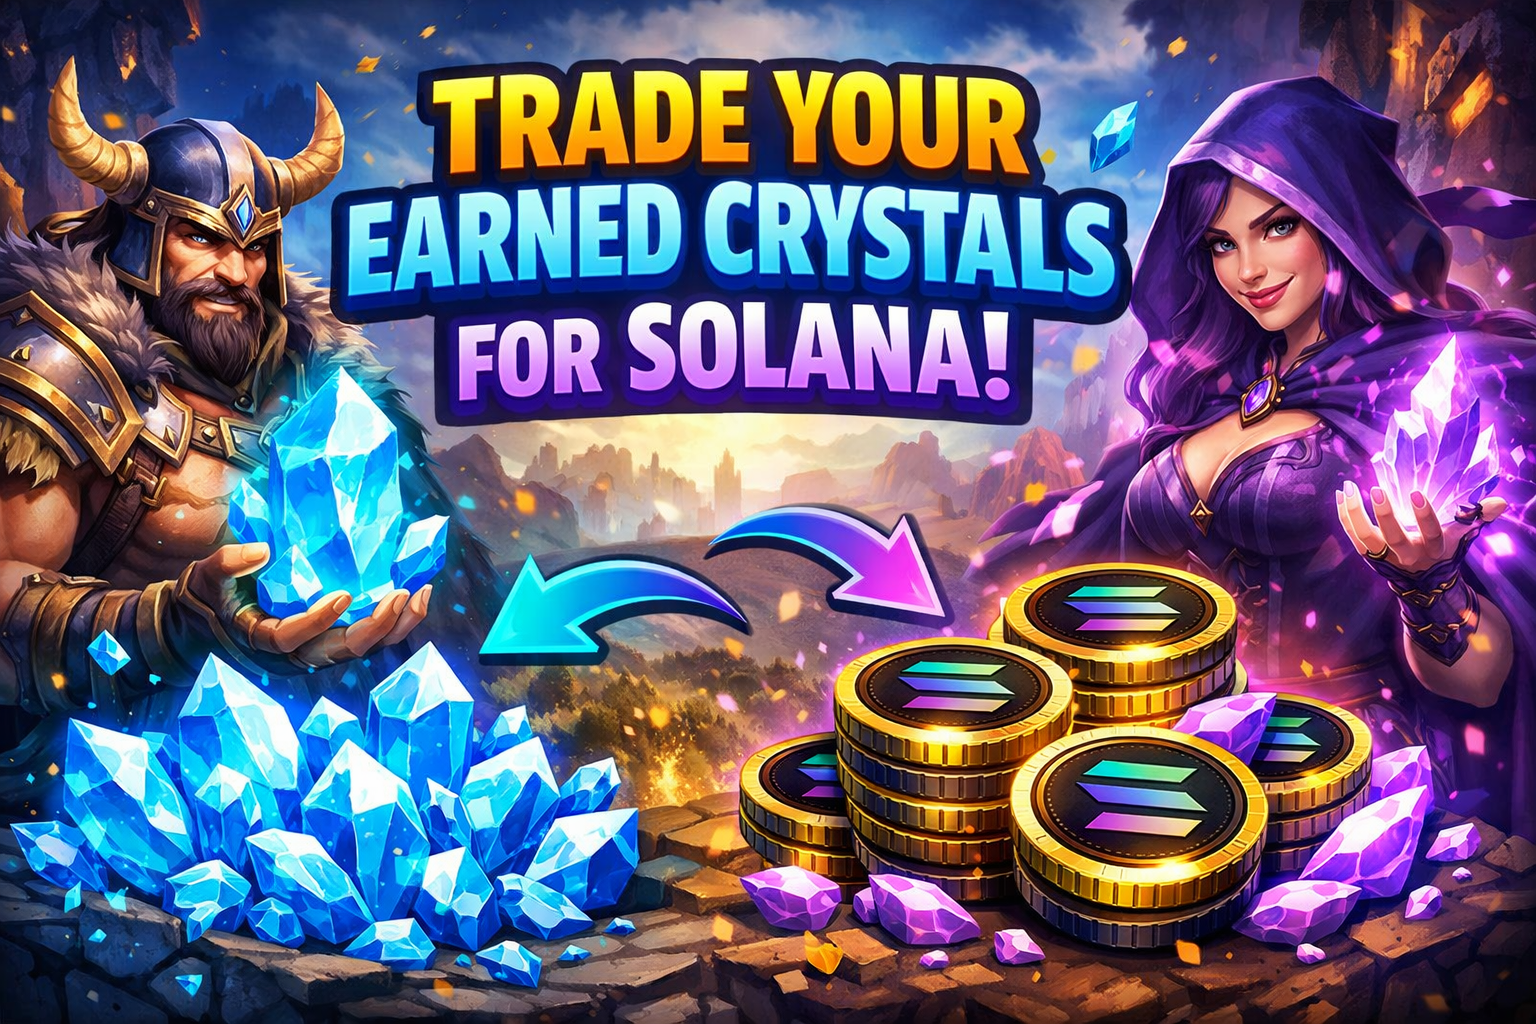
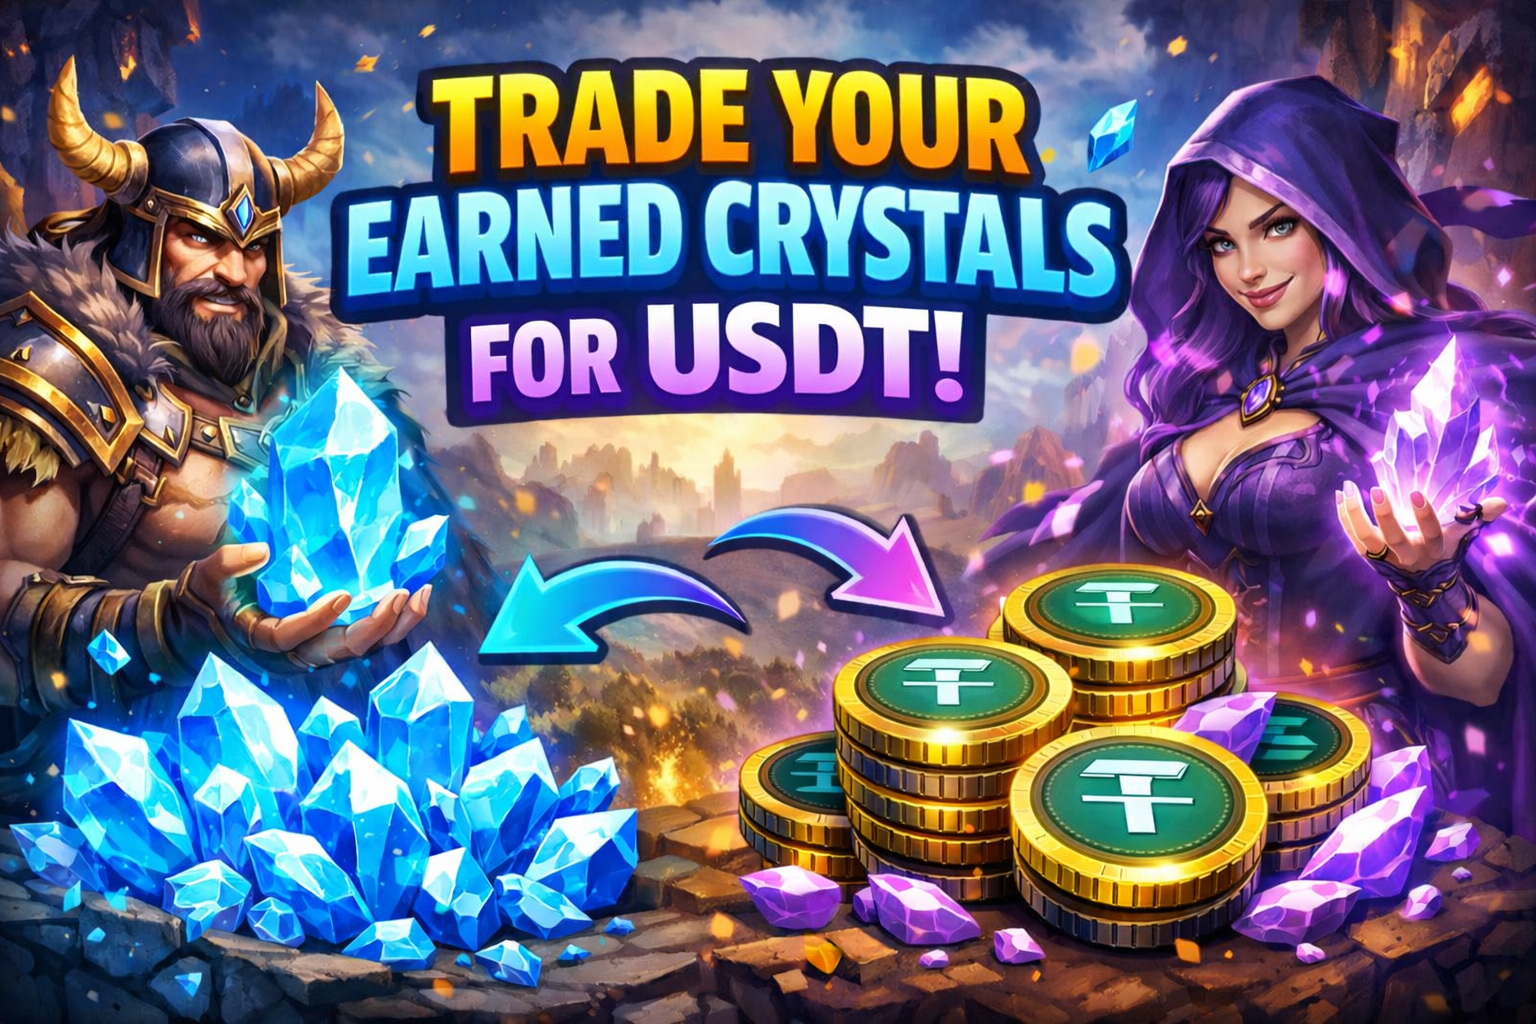
Refresh landing hero visuals

diff --git a/src/App.tsx b/src/App.tsx
@@ -6172,7 +6172,6 @@ function App() {
         <header className={topbarClass}>
           <div>
             <div className="brand">DOGE QUEST</div>
-            <div className="subtitle">Auto-battle, loot and XP in a pixel world</div>
           </div>
           <div className="top-actions">
             {stage === 'game' && hud && (
@@ -6247,8 +6246,7 @@ function App() {
                 conquer dungeons, build your own village, and share World Boss rewards.
               </p>
               <p className="auth-sublead highlight">
-                Earn real SOL by playing: farm crystals in dungeons and World Boss raids, build your own village and
-                earn passive income, then convert rewards to SOL. The deeper you push, the larger the payouts.
+                Stack crystals in dungeons, World Boss raids, and your village, then fight for your share of the live seasonal USDT pool. Premium gives a 1.5x payout bonus at the final snapshot.
               </p>
               <div className="auth-cta">
                 <div className="auth-cta-row">
@@ -6270,8 +6268,8 @@ function App() {
                   <span className="stat-label">Dungeons</span>
                 </div>
                 <div className="stat-card">
-                  <span className="stat-value">Mainnet</span>
-                  <span className="stat-label">Solana</span>
+                  <span className="stat-value">30</span>
+                  <span className="stat-label">Day Seasons</span>
                 </div>
               </div>
             </div>

diff --git a/src/App.css b/src/App.css
@@ -538,8 +538,8 @@
 }
 
 .topbar.centered .brand {
-  font-size: 30px;
-  letter-spacing: 2.8px;
+  font-size: 32px;
+  letter-spacing: 3px;
 }
 
 .top-actions {
@@ -1075,23 +1075,19 @@
 
 
 .brand {
-  font-family: 'Cinzel', 'Manrope', system-ui, sans-serif;
-  font-size: 26px;
-  letter-spacing: 2.4px;
+  font-family: 'Cinzel Decorative', 'Cinzel', 'Manrope', system-ui, sans-serif;
+  font-size: 28px;
+  letter-spacing: 2.8px;
   font-weight: 700;
-  background: linear-gradient(120deg, #ffd36f, #ffb347, #ffeaa0);
+  background: linear-gradient(180deg, #fff0b6 0%, #ffd36f 38%, #ffb347 72%, #fff4cf 100%);
   -webkit-background-clip: text;
   background-clip: text;
   color: transparent;
   text-shadow:
-    0 10px 24px rgba(255, 183, 71, 0.5),
-    0 0 18px rgba(255, 214, 120, 0.55);
-}
-
-.subtitle {
-  margin-top: 6px;
-  color: var(--text-muted);
-  font-size: 12px;
+    0 2px 0 rgba(69, 35, 4, 0.8),
+    0 10px 24px rgba(255, 183, 71, 0.42),
+    0 0 20px rgba(255, 214, 120, 0.34);
+  filter: drop-shadow(0 5px 14px rgba(0, 0, 0, 0.28));
 }
 
 .wallet {
@@ -5953,7 +5949,8 @@ button.ghost {
   }
 
   .brand {
-    font-size: 15px;
+    font-size: 18px;
+    letter-spacing: 1.8px;
   }
 
   .panel {
